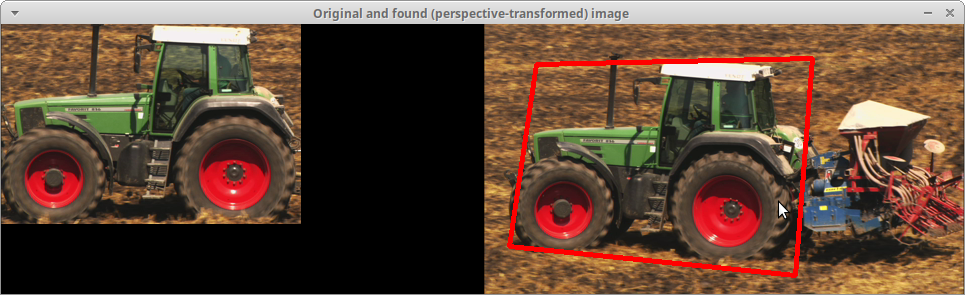
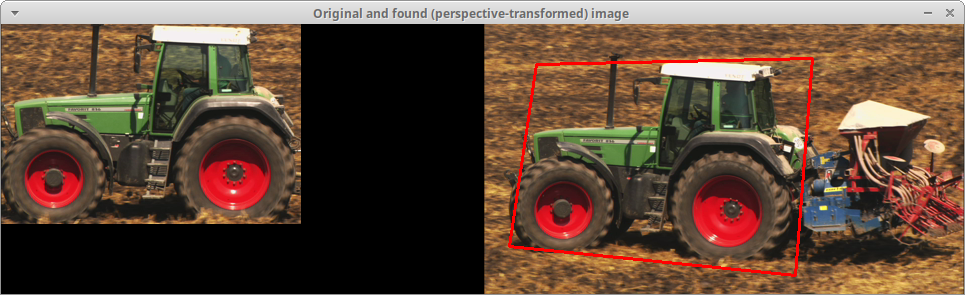
Unified highlighting line width in multiple demos and added hard-coded parameter descriptions

diff --git a/feature_detection/matching_perspective.cpp b/feature_detection/matching_perspective.cpp
@@ -103,8 +103,9 @@ static void TransformImageRectangle(const Size2i original_size, const Mat &homog
  
 static void DrawImageRectangle(Mat image, const vector<Point2i> &transformed_corners)
 {
-  constexpr auto line_width = 3;
-  polylines(image, transformed_corners, true, Red, line_width); //Closed polylines
+  constexpr auto line_width = 2;
+  const auto frame_color = Red;
+  polylines(image, transformed_corners, true, frame_color, line_width); //Closed polylines
 }
 
 static void TransformAndDrawImageRectangle(const Mat &first_image, Mat &second_image, const Mat &homography)

diff --git a/object_detection/viola_jones.cpp b/object_detection/viola_jones.cpp
@@ -32,9 +32,10 @@ static void FindFaces(const Mat &image, /*const*/ CascadeClassifier &classifier,
 
 static void HighlightFaces(Mat &image, vector<Rect> faces)
 {
+  constexpr auto line_width = 2;
   const auto face_color = Red;
   for (const auto &face : faces)
-    rectangle(image, face, face_color);
+    rectangle(image, face, face_color, line_width);
 }
 
 static Mat GetGrayscaleImage(const Mat &image)

diff --git a/object_detection/viola_jones_readme.md b/object_detection/viola_jones_readme.md
@@ -17,9 +17,9 @@ The object detection algorithm by Viola and Jones can be used to find the positi
 Usage
 -----
 
-Advance to the next frame (see parameters below) to its face detection results. For the default program parameters, observe that the detection is successful and relatively consistent among all frames.
+Advance to the next frame (see parameters below) to its face detection results. For the default program parameters, observe that the detection is successful and relatively consistent among all frames. Observe that non-frontal faces are not detected or detected unreliably.
 
-![Screenshot after advancing to the tenth frame](../screenshots/viola_jones_10.png)
+![Screenshot when using a different sequence with non-frontal faces](../screenshots/viola_jones_ice.png)
 
 Available actions
 -----------------
@@ -41,6 +41,7 @@ Hard-coded parameters
 ---------------------
 
 * `classifier_path` (local to `InitClassifier`): File path of the XML file specifying the classifier cascade to be used.
+* `line_width`: Width of the face-highlighting rectangles' lines in pixels.
 
 Known issues
 ------------

diff --git a/feature_detection/matching_perspective_readme.md b/feature_detection/matching_perspective_readme.md
@@ -41,7 +41,7 @@ Program parameters
 Hard-coded parameters
 ---------------------
 
-None
+* `line_width`: Width of the transformed image frame's lines in pixels.
 
 Known issues
 ------------
